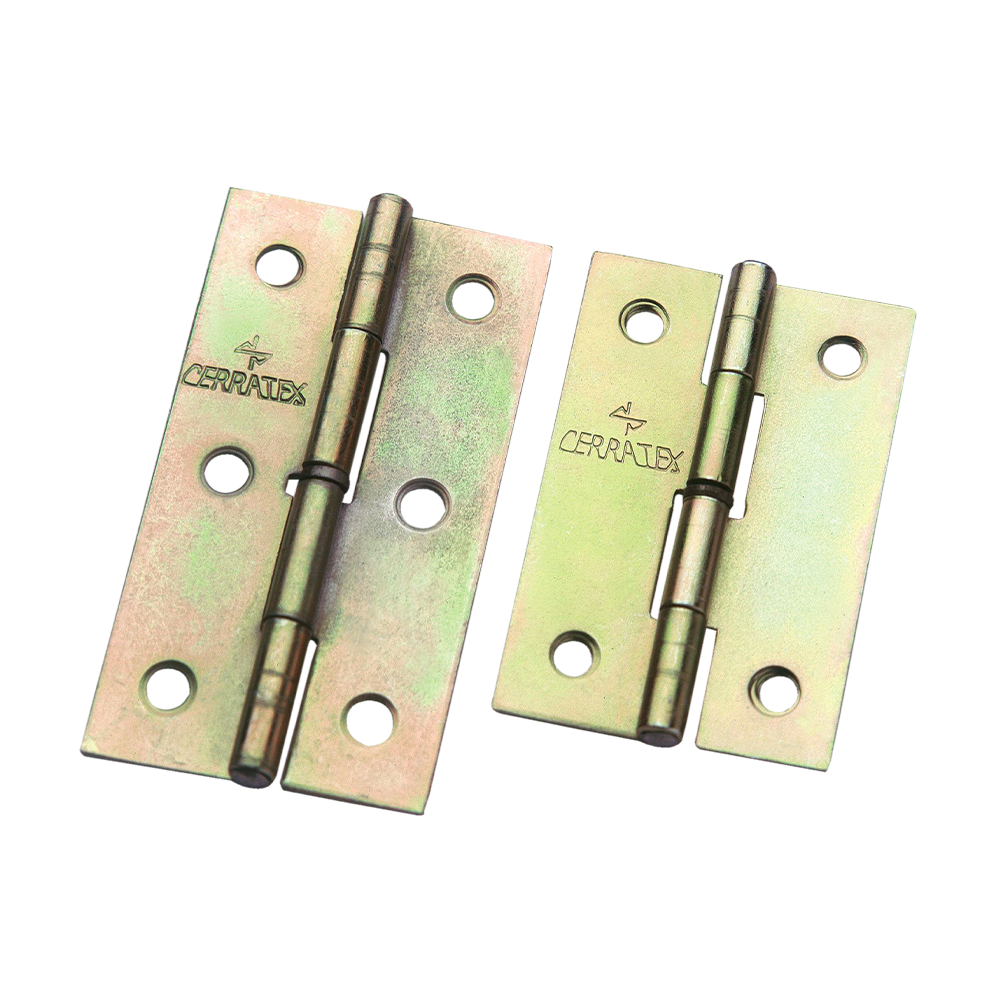
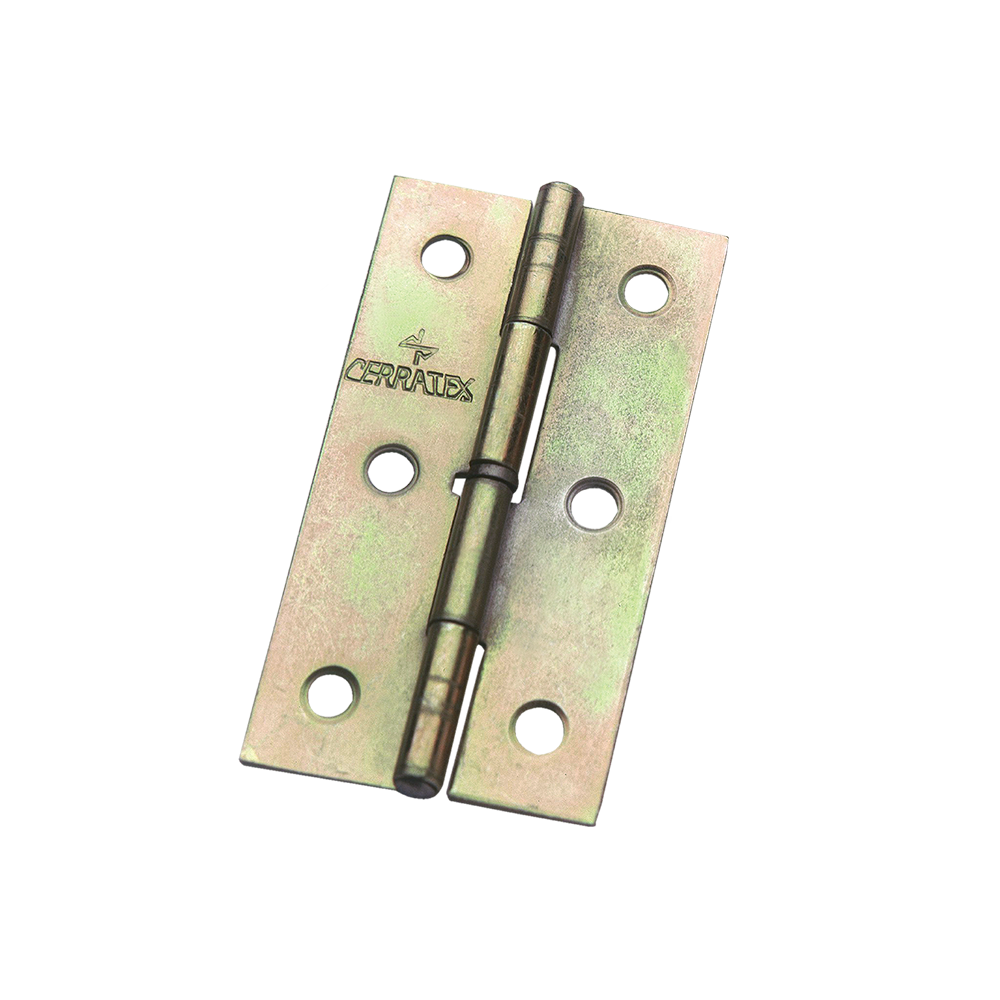
Adding photo and titles changes

diff --git a/frontend/assets/css/style.css b/frontend/assets/css/style.css
@@ -61,6 +61,11 @@ h1, h2, h3, h4, h5, h6 {
   flex-basis: 33.33%;
 }
 
+/* .img__vent {
+  width: 100%;
+  height: 500px;
+} */
+
 .img--port {
   height: auto;
   width: 100%;
@@ -344,7 +349,7 @@ h1, h2, h3, h4, h5, h6 {
 }
 
 #header .logo img {
-  max-height: 100px;
+  max-height: 150px;
 }
 
 #hero .logo {
@@ -727,7 +732,7 @@ section {
 }
 
 .section-title h2 {
-  font-size: 32px;
+  font-size: 48px;
   font-weight: bold;
   text-transform: uppercase;
   margin-bottom: 20px;
@@ -751,6 +756,13 @@ section {
   margin-bottom: 0;
   font-size: 14px;
   color: #2f8c2b;
+}
+
+@media (max-width: 500px) {
+  .section-img {
+    max-width: 100%;
+    height: auto;
+  }
 }
 
 /*--------------------------------------------------------------

diff --git a/frontend/assets/html/632.html b/frontend/assets/html/632.html
@@ -53,6 +53,10 @@
                   <img src="../img/accesorios/632.png" alt="Imagen de producto" id="img-632">
                 </div>
 
+                <div class="swiper-slide">
+                  <img src="../img/accesorios/bisagras.png" alt="Comparación bisagras">
+                </div>
+
               </div>
               <div class="swiper-pagination"></div>
             </div>

diff --git a/frontend/assets/html/633.html b/frontend/assets/html/633.html
@@ -53,6 +53,10 @@
                   <img src="../img/accesorios/633.png" alt="Imagen de producto" id="img-633">
                 </div>
 
+                <div class="swiper-slide">
+                  <img src="../img/accesorios/bisagras.png" alt="Comparación bisagras">
+                </div>
+
               </div>
               <div class="swiper-pagination"></div>
             </div>

diff --git a/frontend/assets/html/628.html b/frontend/assets/html/628.html
@@ -57,6 +57,10 @@
                   <img src="../img/roldanas/628_plano.png" alt="Imagen de producto">
                 </div>
 
+                <div class="swiper-slide">
+                  <img src="../img/roldanas/roldanasPlastico.png" alt="Comparación tamaño roldanas">
+                </div>
+
 
               </div>
               <div class="swiper-pagination"></div>

diff --git a/frontend/assets/html/629.html b/frontend/assets/html/629.html
@@ -57,6 +57,9 @@
                   <img src="../img/roldanas/629_plano.png" alt="Plano de producto">
                 </div>
 
+                <div class="swiper-slide">
+                  <img src="../img/roldanas/roldanasPlastico.png" alt="Comparación tamaño roldanas">
+                </div>
 
               </div>
               <div class="swiper-pagination"></div>

diff --git a/frontend/assets/html/630.html b/frontend/assets/html/630.html
@@ -57,6 +57,9 @@
                   <img src="../img/roldanas/630_plano.png" alt="Plano de producto">
                 </div>
 
+                <div class="swiper-slide">
+                  <img src="../img/roldanas/roldanasPlastico.png" alt="Comparación tamaño roldanas">
+                </div>
 
               </div>
               <div class="swiper-pagination"></div>

diff --git a/frontend/assets/html/631.html b/frontend/assets/html/631.html
@@ -57,6 +57,9 @@
                   <img src="../img/roldanas/631_plano.png" alt="Plano de producto">
                 </div>
 
+                <div class="swiper-slide">
+                  <img src="../img/roldanas/roldanasPlastico.png" alt="Comparación tamaño roldanas">
+                </div>
 
               </div>
               <div class="swiper-pagination"></div>

diff --git a/frontend/assets/html/310b.html b/frontend/assets/html/310b.html
@@ -57,6 +57,10 @@
                   <img src="../img/ventana/310_plano.png" alt="Plano de producto">
                 </div>
 
+                <div class="swiper-slide">
+                  <img src="../img/ventana/fotoventana.png" alt="Ejemplo">
+                </div>
+
 
               </div>
               <div class="swiper-pagination"></div>

diff --git a/frontend/assets/html/310n.html b/frontend/assets/html/310n.html
@@ -57,6 +57,9 @@
                   <img src="../img/ventana/310_plano.png" alt="Plano de producto">
                 </div>
 
+                <div class="swiper-slide">
+                  <img src="../img/ventana/fotoventana.png" alt="Ejemplo">
+                </div>
 
               </div>
               <div class="swiper-pagination"></div>

diff --git a/frontend/index.html b/frontend/index.html
@@ -52,7 +52,7 @@
 
       <!-- ======= Logo ======= -->
       <a href="index.html" class="logo">
-        <img src="./assets/img/logo4.png" alt="" class="img-fluid">
+        <img src="./assets/img/logo4.png" alt="Logo" class="img-fluid">
       </a>
       <!-- Logo -->
 
